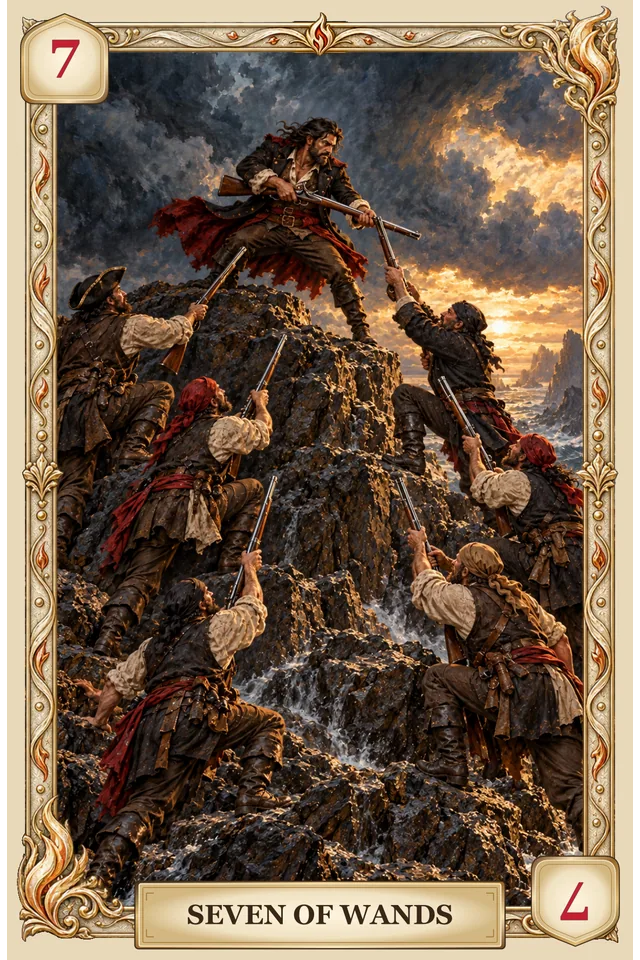
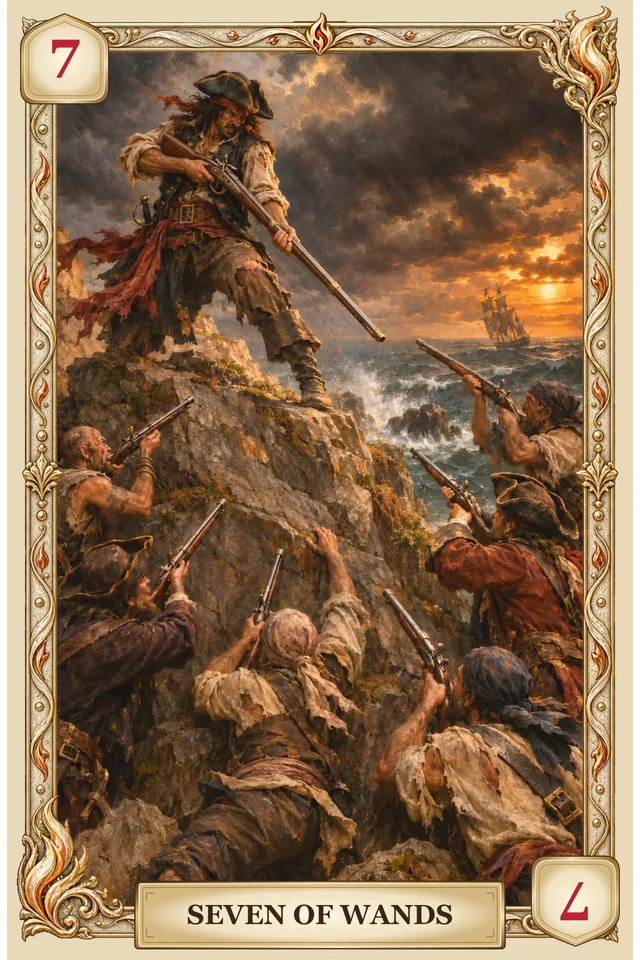
Update adopted Tower and Seven of Wands artwork

diff --git a/public/assets/pirate-tarot/version.js b/public/assets/pirate-tarot/version.js
@@ -1,2 +1,2 @@
 // Generated by scripts/build-pirate-tarot-art.cjs
-export const PIRATE_TAROT_ARTWORK_VERSION = 'v8-a740ed2707b653a3';
+export const PIRATE_TAROT_ARTWORK_VERSION = 'v8-41e255769cdbdde4';
